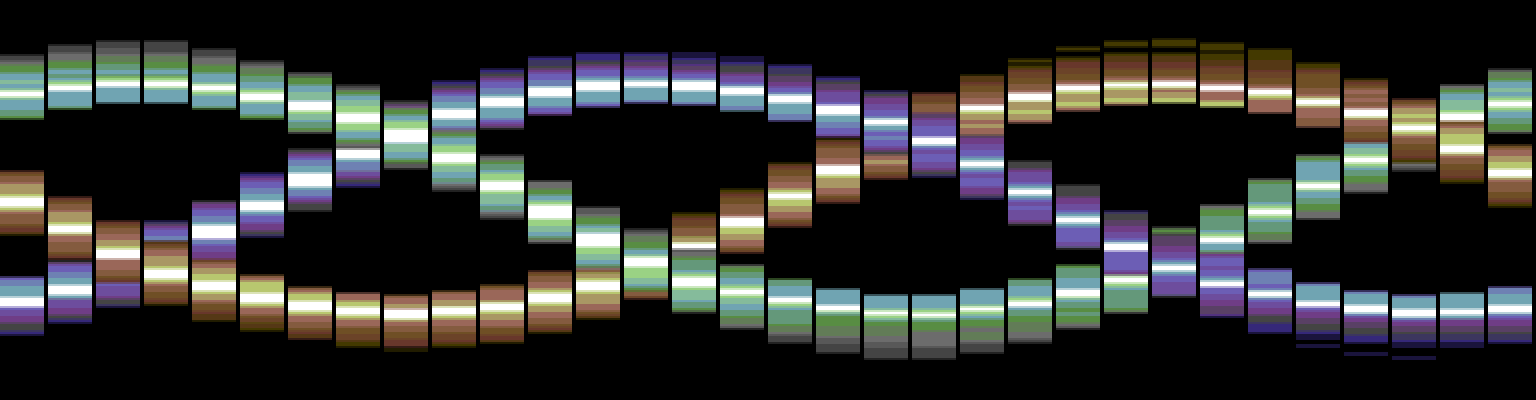
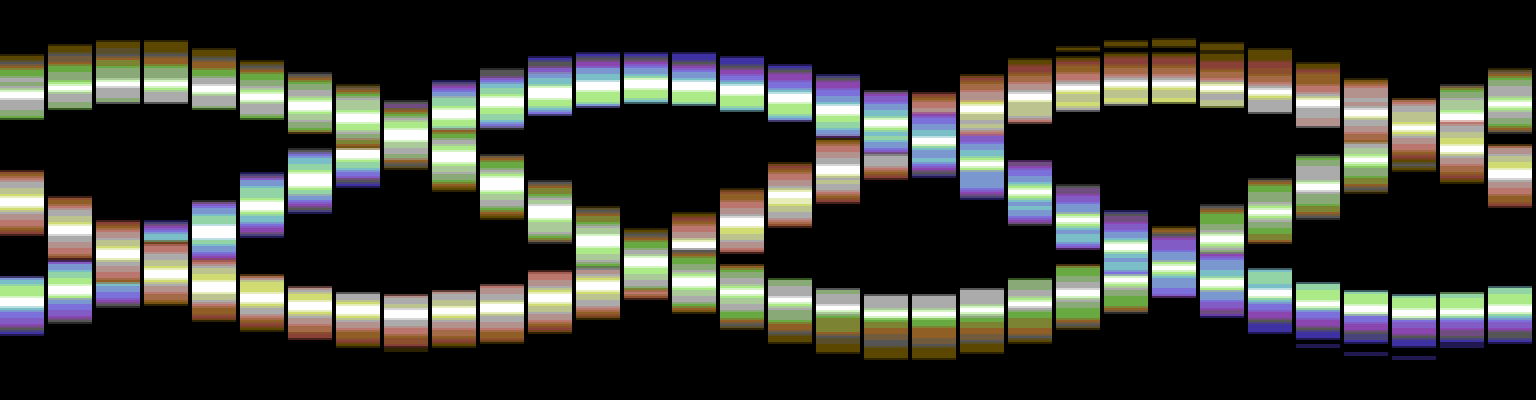
RAYBARS: multichrome ramps from "Stretching the c64 Palette"
Use the article's three basic multichrome gradients (one colour per
VIC-II brightness level) without their white end, plus the scale-2
dithered in-between steps: 7 colours -> 13 steps per bar. Ramps widen
to 32 entries (diffuse 0..10, env 0..2, specular 0..6) and the preview
switches to VICE's palette to match the article.

Claude-Session: https://claude.ai/code/session_01XRP7YWTXV6rxeodyPouCbG

diff --git a/c64-raybars/gen_tables.py b/c64-raybars/gen_tables.py
@@ -63,10 +63,10 @@ def doubled(f):
     t = [ubyte(f(a)) for a in range(256)]
     return t + t
 
-# diffuse: 0..8 (twice the levels of a plain 16-colour ramp, see RAMPS)
-tables["difftab"] = doubled(lambda a: 8 * max(0.0, math.cos(rad(a))))
-# specular, Phong exponent 24: 0..5
-tables["spectab"] = doubled(lambda a: 5 * max(0.0, math.cos(rad(a))) ** 24)
+# diffuse: 0..10 (one per step of the stretched ramps, see RAMPS)
+tables["difftab"] = doubled(lambda a: 10 * max(0.0, math.cos(rad(a))))
+# specular, Phong exponent 24: 0..6
+tables["spectab"] = doubled(lambda a: 6 * max(0.0, math.cos(rad(a))) ** 24)
 
 # environment map, 1-D: indexed by the angle of the reflected view ray.
 # A chrome-style horizon: sky (up, -y) = 2, a horizon band = 1, ground = 0.
@@ -98,43 +98,51 @@ with open(os.path.join(here, "tables.inc"), "w") as f:
     f.write("\n".join(out))
 
 # --- stretched colour ramps ----------------------------------------------------
-# The C64's 16 colours, ranked by luminance, only give each hue ~6 steps.
-# Between two neighbouring steps we add a MIXED step: colour A on even
-# scanlines, colour B on odd ones.  A PAL TV's delay line and the CRT blur
-# blend the pair into a shade the VIC-II can't make on its own, so each
-# ramp goes from 6 bands to 11.
+# Ramps from "Stretching the c64 Palette" (Daniel Krajzewicz,
+# krajzewicz.de/blog/stretching-the-c64-palette.php): "multichrome"
+# gradients that take ONE colour from each of the VIC-II's brightness
+# levels, whatever its hue, so a gradient gets every brightness step the
+# chip has instead of the 3-4 a single hue offers.  The article's white
+# end is dropped here (white is reserved for the specular highlight).
 #
-# Intensity = diffuse (0..8) + env (0..2) + specular (0..5) = 0..15
-#   0..10  the bar's own colours, alternating with the in-between mixes
-#   11     highlight fringe: brightest bar colour mixed with white
-#   12..15 specular core: white
-# Diffuse + env tops out at 10, so only the specular term reaches white.
+# Between each pair of neighbours there is a MIXED step, as in the
+# article: the two colours on alternating scanlines, which a PAL TV
+# blends.  7 colours -> 13 steps.
+#
+# Intensity = diffuse (0..10) + env (0..2) + specular (0..6) = 0..18
+#   0..12  the bar's own colours, alternating with the in-between mixes
+#   13     highlight fringe: brightest bar colour mixed with white
+#   14+    specular core: white
+# Diffuse + env tops out at 12, so only the specular term reaches white.
 WHITE = 1
-RAMPS = [
-    ("fire",  [0, 9, 2, 8, 10, 7]),   # black brown red orange light-red yellow
-    ("ocean", [0, 6, 11, 4, 14, 3]),  # black blue dark-grey purple light-blue cyan
-    ("toxic", [0, 11, 12, 5, 3, 13]), # black dark-grey grey green cyan light-green
+RAMPS = [                            # the article's gradients 9, 10 and 11
+    ("fire",  [0, 9, 2, 8, 10, 15, 7]),  # blk brown red orange l.red l.grey yellow
+    ("ocean", [0, 6, 11, 4, 14, 3, 13]), # blk blue d.grey purple l.blue cyan l.green
+    ("forest", [0, 9, 11, 8, 5, 15, 13]),# blk brown d.grey orange green l.grey l.green
 ]
+RAMPLEN = 32
 
 def stretch(base):
-    """6 pure colours -> 16 (even, odd) pairs."""
+    """7 pure colours -> 32 (even, odd) pairs."""
     steps = []
     for i, c in enumerate(base):
         steps.append((c, c))
         if i + 1 < len(base):
             steps.append((c, base[i + 1]))       # the in-between mix
     steps.append((base[-1], WHITE))              # highlight fringe
-    steps += [(WHITE, WHITE)] * (16 - len(steps))
-    assert len(steps) == 16
+    steps += [(WHITE, WHITE)] * (RAMPLEN - len(steps))
     return steps
 
 out = ["; Generated by gen_tables.py -- do not edit by hand.",
-       "; Per bar: 16 bytes for even scanlines, then 16 for odd ones.", ""]
+       f"; Per bar: {RAMPLEN} bytes for even scanlines, then {RAMPLEN} for odd ones.", ""]
 for name, base in RAMPS:
     st = stretch(base)
     out.append(f"ramp_{name}:")
-    out.append("        .byte " + ",".join(f"${a:02x}" for a, b in st) + "  ; even lines")
-    out.append("        .byte " + ",".join(f"${b:02x}" for a, b in st) + "  ; odd lines")
+    for half, label in ((0, "even lines"), (1, "odd lines")):
+        col = [p[half] for p in st]
+        out.append(f"        ; {label}")
+        for i in range(0, RAMPLEN, 16):
+            out.append("        .byte " + ",".join(f"${c:02x}" for c in col[i:i + 16]))
     out.append("")
 with open(os.path.join(here, "ramps.inc"), "w") as f:
     f.write("\n".join(out))

diff --git a/c64-raybars/simulate.py b/c64-raybars/simulate.py
@@ -21,10 +21,10 @@ FIRSTLINE = 50
 # the IRQ entry/exit code.
 BUDGET = ((312 - (FIRSTLINE + 2 + NLINES)) + FIRSTLINE) * 63 - 150
 
-# Pepto's C64 palette
-PAL = [0x000000, 0xFFFFFF, 0x68372B, 0x70A4B2, 0x6F3D86, 0x588D43, 0x352879,
-       0xB8C76F, 0x6F4F25, 0x433900, 0x9A6759, 0x444444, 0x6C6C6C, 0x9AD284,
-       0x6C5EB5, 0x959595]
+# VICE's default palette (the one "Stretching the c64 Palette" uses)
+PAL = [0x000000, 0xFFFFFF, 0x894036, 0x7ABFC7, 0x8A46AE, 0x68A941, 0x3E31A2,
+       0xD0DC71, 0x905F25, 0x5C4700, 0xBB776D, 0x555555, 0x808080, 0xACEA88,
+       0x7C70DA, 0xABABAB]
 RGB = [((c >> 16) & 255, (c >> 8) & 255, c & 255) for c in PAL]
 
 labels = {}

diff --git a/c64-raybars/README.md b/c64-raybars/README.md
@@ -19,7 +19,8 @@ x64sc raybars.prg                                        # VICE, PAL machine
 (`pip install py65 pillow`, and build with `-g -Ln raybars.lbl`). It checks
 the cycle budget and the 63-cycle raster loop, and renders `preview.gif` and
 `preview.png`. The GIF's left half shows the raw scanlines. The right half
-roughly approximates how a PAL TV blends neighbouring lines.
+roughly approximates how a PAL TV blends neighbouring lines. The preview
+uses VICE's default palette, the one the article uses.
 
 ## How it works, step by step
 
@@ -45,23 +46,30 @@ roughly approximates how a PAL TV blends neighbouring lines.
    each, so `table[t − p]` becomes `lda table+(−p),x`, with `−p` patched into
    the operand once per bar. The inner loop takes about 39 cycles per
    scanline.
-7. **Colour uses a stretched palette.** Each bar has 6 colours ranked by
-   luminance. Between each pair of neighbours there is a mixed step: colour A
-   on even scanlines and colour B on odd ones. A PAL TV's delay line and the
-   CRT blur blend the pair into an in-between shade, so each ramp has 11
-   steps instead of 6. That lets the bars grow to 32 lines without visible
-   banding. The shading loop is unrolled by two, so even and odd lines read
-   their own ramp table at no extra cost per line.
-   * Intensity is diffuse (0..8) + env (0..2) + specular (0..5).
-   * Diffuse plus env tops out at 10, the bar's brightest colour.
-   * Step 11 mixes that colour with white, and 12 and up is **white**, so
-     only the specular term reaches white.
-   * Fire: black, brown, red, orange, light red, yellow
-   * Ocean: black, blue, dark grey, purple, light blue, cyan
-   * Toxic: black, dark grey, grey, green, cyan, light green
-   * Build with `--asm-define FLICKER=1` to also swap each mixed pair every
-     frame. That blends the pair over time as well as across lines, which
-     looks smoother on a sharp LCD or emulator but flickers.
+7. **Colour uses a stretched palette.** This follows Daniel Krajzewicz's
+   [Stretching the c64 Palette](https://www.krajzewicz.de/blog/stretching-the-c64-palette.php).
+   * **Multichrome ramps.** Each ramp takes one colour from each of the
+     VIC-II's brightness levels, whatever its hue, so it gets every
+     brightness step the chip has. These are the article's three "basic
+     multichrome bars", with their white end dropped:
+     * Fire: black, brown, red, orange, light red, light grey, yellow
+     * Ocean: black, blue, dark grey, purple, light blue, cyan, light green
+     * Forest: black, brown, dark grey, orange, green, light grey, light green
+   * **In-between steps.** Between neighbours there is a mixed step, the
+     article's "Poor Man's Dithering" at scale 2: the two colours on
+     alternating scanlines, which a PAL TV blends. 7 colours give 13 steps,
+     enough for 32-line bars. The shading loop is unrolled by two, so even
+     and odd lines read their own ramp table at no extra cost per line.
+   * **Correct widths.** The article notes that hand-made patterns never
+     give each brightness its correct width. Here the widths come from the
+     cosine shading, so the bars actually look round.
+   * **Intensity** is diffuse (0..10) + env (0..2) + specular (0..6).
+     Diffuse plus env tops out at 12, the brightest bar colour. Step 13
+     mixes that colour with white, and 14 and up is **white**, so only the
+     specular term reaches white.
+   * **Option:** build with `--asm-define FLICKER=1` to also swap each mixed
+     pair every frame. That looks smoother on a sharp LCD or emulator but
+     flickers.
 8. **Bars are drawn back to front.** A 3-element sorting network orders them
    by depth, and the painter's algorithm handles the crossings.
 9. **The screen is blanked (DEN=0).** With the display off there are no
